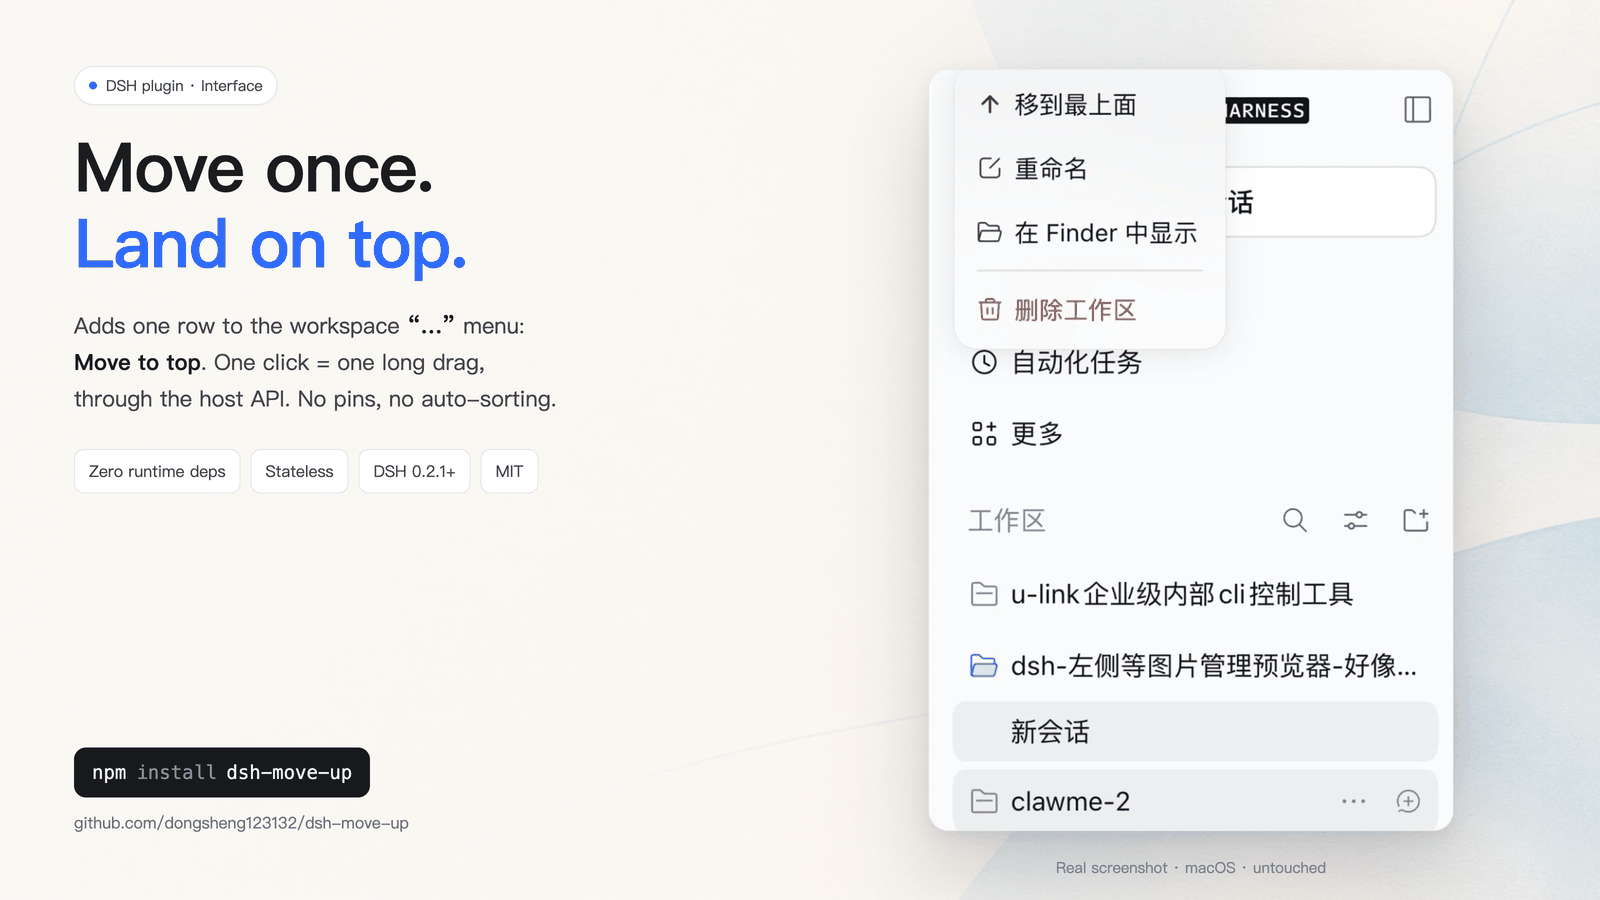
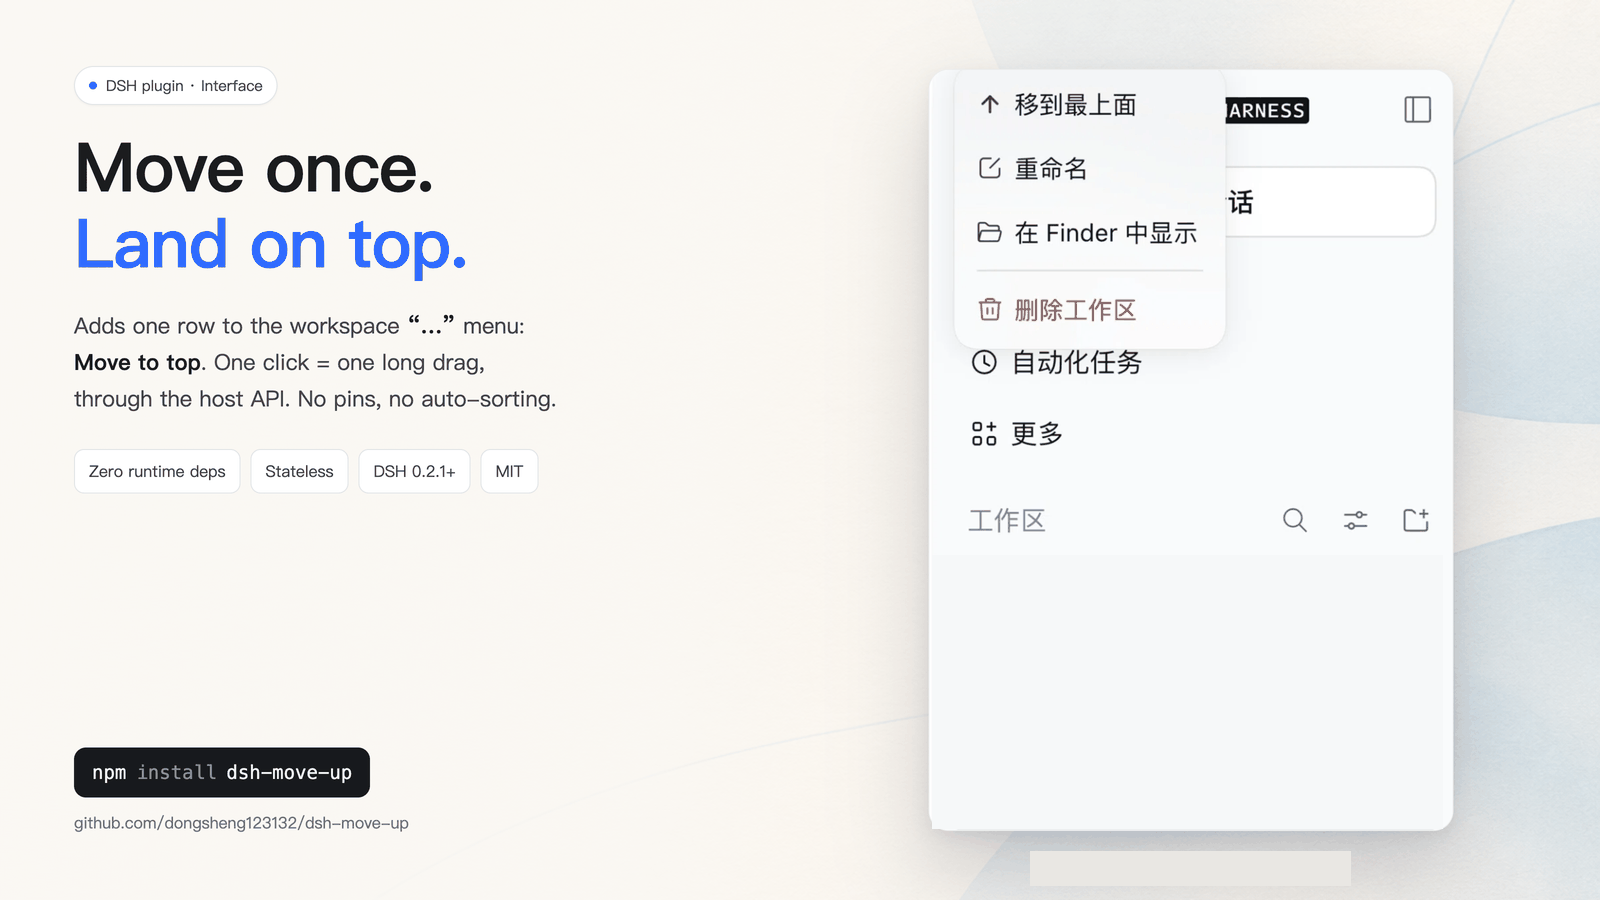
docs: remove private workspace screenshots

diff --git a/promotion/市场推广资料.md b/promotion/市场推广资料.md
@@ -26,7 +26,7 @@ English: Move Up adds one action to the DeepSeek Harness workspace menu: move th
 
 ## 推广状态与待办
 
-1. 展示图有两张：`docs/promo-zh.png`（中文）和 `docs/promo-en.png`（英文）。右侧是真实界面截图，左侧文字与浅色背景为后期合成；背景图由 gpt-image 生成（无文字），排版文字由 HTML 渲染，保证中文准确。
+1. 展示图有两张：`docs/promo-zh.png`（中文）和 `docs/promo-en.png`（英文）。右侧保留真实菜单画面，工作区列表已遮挡；左侧文字与浅色背景为后期合成。
 2. 优先联系已收录的市场，申请刷新版本与简介：准确来源为 GitHub 和 npm。发布前复核当前版本、实际包体积及兼容范围。
 3. Awesome DSH Plugin Pro 自荐展示位要求 GitHub 仓库超过 10 stars；当前未满足，暂不提交该展示位。来源：https://github.com/bruc3van/awesome-dsh-plugin-pro/blob/main/CONTRIBUTING.md
 4. 尚未确认 DSH Plugin Shop 的实际收录及投稿渠道，不能称已上架。

diff --git a/README.zh-CN.md b/README.zh-CN.md
@@ -12,14 +12,12 @@
 
 ## 真实界面验证
 
-![工作区菜单里的「移到最上面」](https://raw.githubusercontent.com/dongsheng123132/dsh-move-up/main/docs/screenshot-menu.png)
 
 在真实界面里点过，两个平台都是结构化菜单后端：
 
 - macOS，DSH `0.2.2-rc.1` Web：这一行带向上箭头，出现在工作区 `…` 菜单的**重命名**上方；对排第 4 的 workspace 点一次，它变成第一，弹出「已移到最上面」，存储里的持久顺序也变了；对本来就在第一的 workspace 点，提示「已经在最上面」，不产生写入。
 - Windows 11，DSH 桌面版 `0.2.2-rc.3`（Electron）：同样的行、同样的箭头 —— 排第 3 的 workspace 移到第一，弹出「已移到最上面」，`storages/workspace.json` 里它排到了第一位。
 
-![Windows 桌面版里的「移到最上面」](https://raw.githubusercontent.com/dongsheng123132/dsh-move-up/main/docs/screenshot-windows.png)
 
 ## 安装
 

diff --git a/README.md b/README.md
@@ -12,7 +12,6 @@ Adds **Move to top** to a DeepSeek Harness workspace's `…` menu. One click per
 
 ## Verified in a real browser
 
-![Move to top in the workspace menu](https://raw.githubusercontent.com/dongsheng123132/dsh-move-up/main/docs/screenshot-menu.png)
 
 Checked against the real web UI and the real Windows desktop app, both on the structured
 context-menu backend:
@@ -24,7 +23,6 @@ context-menu backend:
 - Windows 11, DSH desktop `0.2.2-rc.3` (Electron): same row with the same glyph — the 3rd workspace
   moved to first with the *Moved to top* toast, and `storages/workspace.json` listed it first.
 
-![Move to top in the Windows desktop app](https://raw.githubusercontent.com/dongsheng123132/dsh-move-up/main/docs/screenshot-windows.png)
 
 ## Install
 
